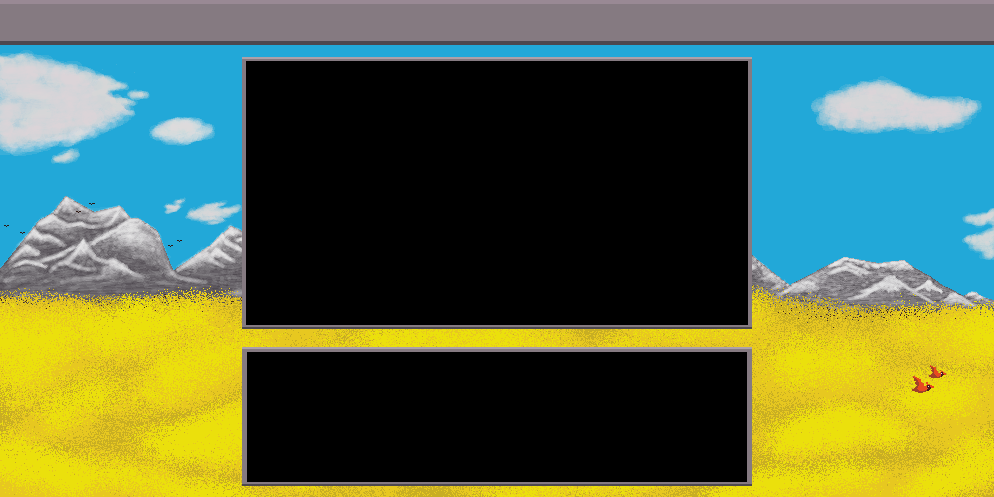
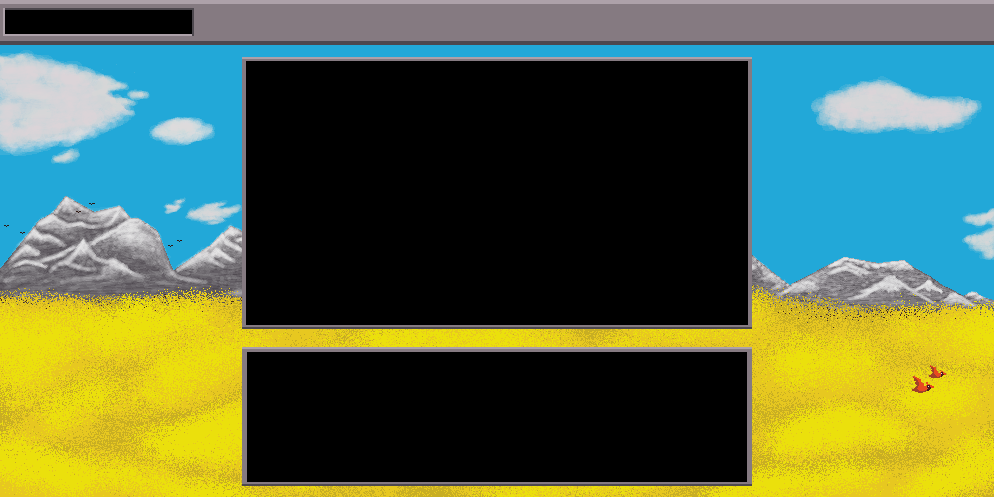
Primer actualizasion (respaldo)

Changed region(s): [[0.0, 0.0, 0.2183, 0.0905]]

diff --git a/Proyecto.py b/Proyecto.py
@@ -1,41 +1,81 @@
-from tkinter import *
+from tkinter import*
 from librerias import Eleccion
-ventana=Tk()
+
+def pantalla():
+    ventana=Tk()
  
-ventana.title("Aventura 0.01")#Nombre de ventana
-ventana.geometry("1000x500")#tamano al abrirce
+    ventana.title("Aventura 0.01")# Nombre de ventana
+    ventana.geometry("1000x500")# Tamano al abrirce
 
-ventana.iconbitmap("C:\\Users\\carlo\\OneDrive\\Escritorio\\aventura\\personaje\\escudo.ico")# Temporal-icono
+    ventana.iconbitmap("C:\\Users\\carlo\\OneDrive\\Escritorio\\aventura\\personaje\\escudo.ico")# Temporal-icono
+    
+    imagen_fondo = PhotoImage(file=f"C:\\Users\\carlo\\OneDrive\\Escritorio\\aventura\\personaje\\pared.png")
+    primer_fondo = Label(ventana, image=imagen_fondo)
+    primer_fondo.place(x=0, y=0)
+    
+    jugador=Eleccion(ventana)# _________________________________________________Instancia de la clase Elección_____________________________________________________________
 
-f1="pared2.png"#---->def despues
-f2="cielo.png"#-->def despues
-f3="noche.png"#-->def despues
-imagen_fondo = PhotoImage(file=f"C:\\Users\\carlo\\OneDrive\\Escritorio\\aventura\\personaje\\{f2}") #creo un fondo/solo funciona en este dispocitivo <-X
-Fondo = Label(ventana, image=imagen_fondo) #<-------------X
-Fondo.place(x=0, y=0)
+    # Eleccion de fondo
+    op=StringVar()
+    elecciones={"pared","cielo","noche"} 
+    op.set("Fondos")
+    fondos=OptionMenu(ventana,op,*elecciones,command= lambda fon:jugador.Fondo(fon,primer_fondo))
+    fondos.place(x=895,y=8)
 
-jugador=Eleccion()# Instancia 
+    #-------------------------------------------------------------------------------Trasfondo
+    iniciacion0_0=Label(ventana,text="- En tierras lejanas donde los héroes y monstruos abundan, un grupo de amigos se reúne\ncon el deseo de ser aventureros. Explorando los bosques y derrotando monstruos.       ",bg="black",fg="white")
+    iniciacion0_0.place(x=255,y=360)
+    cont1=Button(ventana,text="Continuar >>>",bg="orange",fg="white",command= lambda: jugador.tr(iniciacion0_0,cont1))
+    cont1.place(x=650,y=450)
 
-iniciacion1=Label(ventana,text="> Elija a su personaje aventurero (No podras cambiarlo despues).",bg="black",fg="white") # <--- eliminar esto despues de apretar aceptar
-iniciacion1.place(x=255,y=110)
-iniciacion2=Label(ventana,text="- Indique su nombre aventurero (No podras cambiarlo despues).",bg="black",fg="white") # <--- eliminar esto despues de apretar aceptar
-iniciacion2.place(x=255,y=360)
-nombre=Entry(ventana) #<----- trabajar con nombre(e)
-nombre.place(x=410,y=450)
-nom=Button(ventana,text="aceptar",bg="orange",fg="white",command=jugador.Nombre) #<----- darle propocito
-nom.place(x=520,y=448)
 
-op=StringVar()
-elecciones={
-  "Fondo 1":"pared2.png",
-  "Fondo 2":"cielo.png",
-  "Fondo 3":"noche.png"
-  }
-op.set("Fondos")
-fondos=OptionMenu(ventana,op,*elecciones)
-fondos.place(x=895,y=8)
+         #  <------------------------------------------------------------------------------------------------X
 
-ayuda=Button(text="Ayuda")
-ayuda.place(x=845,y=11)
+    # Instrucciones iniciales
+    iniciacion1_0=Label(ventana,text="- Elija a su personaje aventurero (No podras cambiarlo despues).",bg="black",fg="white")
+    iniciacion1_0.place(x=255,y=70)
+    iniciacion1_1=Label(ventana,text="- Indique su nombre aventurero (No podras cambiarlo despues).",bg="black",fg="white")
+    iniciacion1_1.place(x=255,y=360) 
 
-ventana.mainloop()
+    # Ingreso del nombre:
+    nombre=Entry(ventana) 
+    nombre.place(x=410,y=450)
+    nom=Button(ventana,text="aceptar",bg="orange",fg="white",command=lambda:jugador.Nombre(nombre,iniciacion1_1,nombre,nom))
+    nom.place(x=520,y=448)
+
+    # eleccion de personaje:
+    des_v=" Vida:  90                                          Vida:  120                                       Vida:  100"
+    des_f="  Fuerza:  15                                      Fuerza:  50                                     Fuerza:  25"
+    des_m="Mana:  25                                        Mana:  5                                        Mana:  10"
+    descripcion=Label(ventana,text=f"{des_v}\n{des_f}\n{des_m}",bg="black",fg="white")
+    descripcion.place(x=255,y=235)
+    mago=Button(ventana,text= "Mago",bg="orange",fg="white",command= lambda: jugador.Personaje(iniciacion1_0,descripcion,mago,caballero,arquero,magico,fuerte,velos,1))
+    mago.place(x=315,y=300)
+    ima_mago = PhotoImage(file=f"C:\\Users\\carlo\\OneDrive\\Escritorio\\aventura\\personaje\\Maga1.png") 
+    magico = Label(ventana, image=ima_mago)
+    magico.place(x=270,y=100)
+    caballero=Button(ventana,text= "Caballero",bg="orange",fg="white",command= lambda: jugador.Personaje(iniciacion1_0,descripcion,mago,caballero,arquero,magico,fuerte,velos,2))
+    caballero.place(x=470,y=300)
+    ima_caba = PhotoImage(file=f"C:\\Users\\carlo\\OneDrive\\Escritorio\\aventura\\personaje\\caballero1.png") 
+    fuerte = Label(ventana, image=ima_caba)
+    fuerte.place(x=435,y=100)
+    arquero=Button(ventana,text= "Arquero",bg="orange",fg="white",command= lambda: jugador.Personaje(iniciacion1_0,descripcion,mago,caballero,arquero,magico,fuerte,velos,3))
+    arquero.place(x=635,y=300)
+    ima_arqu = PhotoImage(file=f"C:\\Users\\carlo\\OneDrive\\Escritorio\\aventura\\personaje\\Arquero1.png") 
+    velos = Label(ventana, image=ima_arqu)
+    velos.place(x=600,y=100)
+
+    #ima_arqu = PhotoImage(file=f"C:\\Users\\carlo\\OneDrive\\Escritorio\\aventura\\personaje\\bosque.png") 
+    #velos = Label(ventana, image=ima_arqu,bg="black")
+    #velos.place(x=249,y=64)
+
+
+
+   # Boton de ayuda
+    ayuda=Button(text="Ayuda")
+    ayuda.place(x=845,y=11)
+
+    ventana.mainloop()
+
+if __name__ == "__main__":
+    pantalla()

diff --git a/librerias.py b/librerias.py
@@ -2,41 +2,85 @@
 from tkinter import *
 
 class Eleccion:
-  def __init__(self):#<-------------X
-      pass
+  
+  def __init__(self,ventana):
+    self.ventana=ventana
+    self.imagen_fondo = PhotoImage(file=f"C:\\Users\\carlo\\OneDrive\\Escritorio\\aventura\\personaje\\pared.png")
+    self.primer_fondo = Label(ventana, image=self.imagen_fondo)
+    self.primer_fondo.place(x=0, y=0)
+    self.f=""
 
-  def Si(self):
-   eliminar=[] #Lista bacia para eliminar los Label
-   for i in eliminar:
-        i.destroy()
-   eliminar.clear()
-   zz=Label(self.ventana, text="si funciona",bg="black",fg="white")
-   zz.place(x=470,y=350)
-   eliminar.append(zz)
+  def tr(self,a,s):
+    self.destructor(a,s)
+    qq="-Sin embargo, en una de sus primeras aventuras se toparían con un inesperado y poderoso"
+    ww=" ogro. El cual secuestraria a dos integrantes del equipo…¡Menos a ti aventurero!                    "
+    iniciacion0_1=Label(self.ventana,text=f"{qq}\n{ww}",bg="black",fg="white")
+    iniciacion0_1.place(x=255,y=360)
+    cont2=Button(self.ventana,text="Continuar >>>",bg="orange",fg="white",command= lambda: self.destructor(iniciacion0_1,cont2))
+    cont2.place(x=650,y=450)
 
-  def No(self):
-   eliminar=[]
-   for i in eliminar:
-        i.destroy()
-   eliminar.clear()
-   yy=Label(self.ventana, text="no funciona",bg="black",fg="white")
-   yy.place(x=470,y=350)
-   eliminar.append(yy)
+  def destructor(self,*x): # Destrulle todo lo que le entra
+     for e in x:
+         e.destroy()     
+
+  def Fondo(self,fon,primer_fondo): # Cambia el fondo
+    self.destructor(primer_fondo)
+    self.f=fon
+
+    self.imagen_fondo = PhotoImage(file=f"C:\\Users\\carlo\\OneDrive\\Escritorio\\aventura\\personaje\\{fon}.png")
+    self.primer_fondo.config(image=self.imagen_fondo)
+
+    if self.f == "pared":
+      self.primer_fondo.place(x=0, y=0)
+
+    elif self.f == "cielo":
+      self.primer_fondo.place(x=0, y=0)
+
+    elif self.f == "noche":
+      self.primer_fondo.place(x=0, y=0)
+
+    else:
+      self.primer_fondo.place_forget()
     
 
-  def temporal(self,e):# <------------------X
-    x=0
-    while x!=1 : 
-     numnom=len(e)
-     if numnom >= 15:
-      print("Perdon. El nombre debe tener maximo 15 caracteres.") 
-      e=str(input("        -> "))
-     else:
-       x=1
-    return e
+  def Nombre(self,nombre,z,y,t): # Introduce un nombre 
+    e=nombre.get()
+    lx=len(e)
+    reintento=Label(self.ventana,text="- ¡El nombre debe tener 15 caracteres como maximo y uno minimo!        ",bg="black",fg="white")
+    f=reintento.place(x=255,y=360)
+
+    if lx>=16:
+      return f
+    elif lx>=1:
+      nom=Label(self.ventana,text=e,bg="black",fg="white")
+      nom.place(x=10,y=12)
+      self.destructor(z,y,t)
+      if reintento:
+        parche=Label(self.ventana,text="________________________________________________________________________",bg="black",fg="black")
+        parche.place(x=255,y=360)
   
-  def Nombre(self,nombre):
-    x=nombre.get()
-    nm=Label(text=f"{x}",fg="white",bg="grey")
-    nm.place(x=5,y=10)
+  def Personaje(self,q,w,e,r,t,y,u,i,el_personaje):
+    mag="/ Mago"
+    cab="/ Caballero"
+    arq="/ Arquero"
+    if el_personaje==1:
+      per_elejido=Label(self.ventana,text=mag,bg="black",fg="white")
+      per_elejido.place(x=120,y=12)
+    elif el_personaje==2:
+      per_elejido=Label(self.ventana,text=cab,bg="black",fg="white")
+      per_elejido.place(x=120,y=12)
+    else:
+      per_elejido=Label(self.ventana,text=arq,bg="black",fg="white")
+      per_elejido.place(x=120,y=12)
+    self.destructor(q,w,e,r,t,y,u,i)
+
+
+
+class Jugador:
+  def __init__(self,vida,fuerza,mana):
+    self.vida=vida
+    self.fuerza=fuerza
+    self.mana=mana
   
+
+    

diff --git a/z.py b/z.py
@@ -1,0 +1,27 @@
+from tkinter import *
+
+class Z:
+
+    def __init__(self, ven):
+        self.ven = ven
+        self.eleccion = ""
+        self.bobo = None
+
+    def btn(self, b, e):
+        e.destroy()
+        b.destroy()
+
+        lala = Label(self.ven, text="remplazo")
+        lala.place(x=45, y=75)
+
+        self.bobo = Button(self.ven, text="Elimina2", command=lambda: self.destructor(lala, self.bobo)) 
+        self.bobo.place(x=45, y=45)
+
+    def destructor(self, *x):
+        for e in x:
+            e.destroy()
+
+        # Verifica si 'bobo' ha sido eliminado
+        if not self.bobo.winfo_exists():
+            ff = Label(self.ven, text="funciona")
+            ff.place(x=10, y=10)

diff --git a/x.py b/x.py
@@ -1,0 +1,18 @@
+from tkinter import *
+from z import Z
+
+def mai():
+    ven = Tk()
+    
+    yolo = Z(ven)
+
+    y = Label(ven, text="esto")
+    y.place(x=45, y=15)
+    
+    bot = Button(ven, text="Elimina", command=lambda: yolo.btn(bot, y)) 
+    bot.place(x=45, y=45)
+
+    ven.mainloop()
+
+if __name__ == "__main__":
+    mai()
